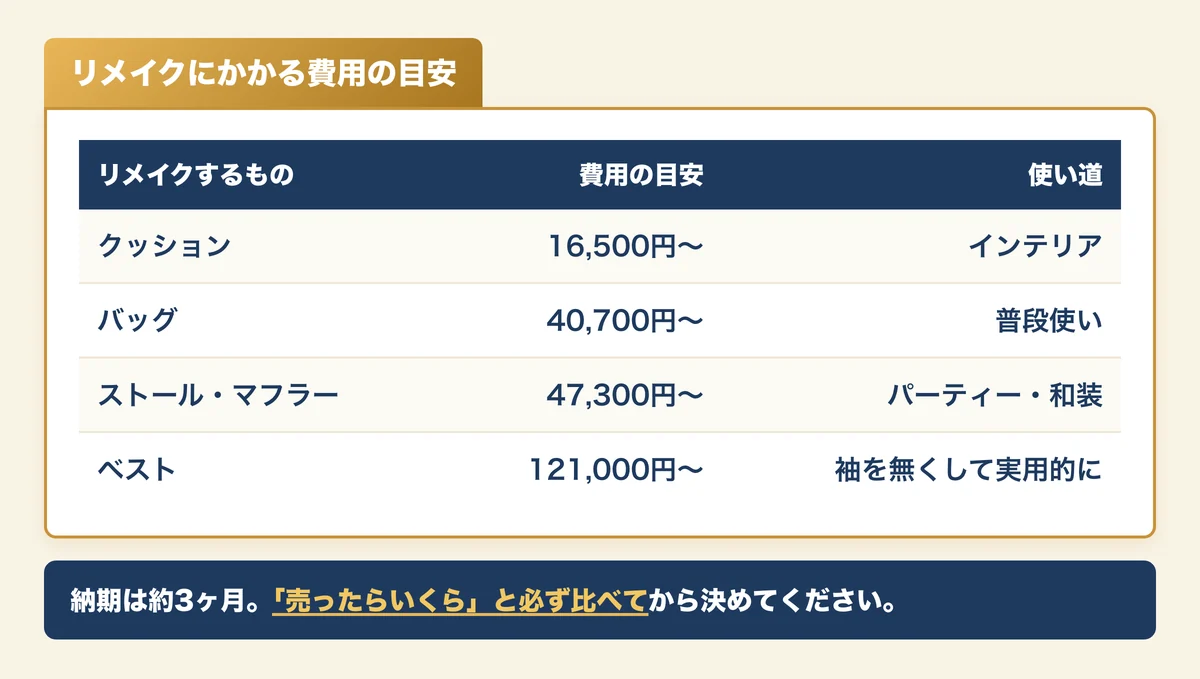
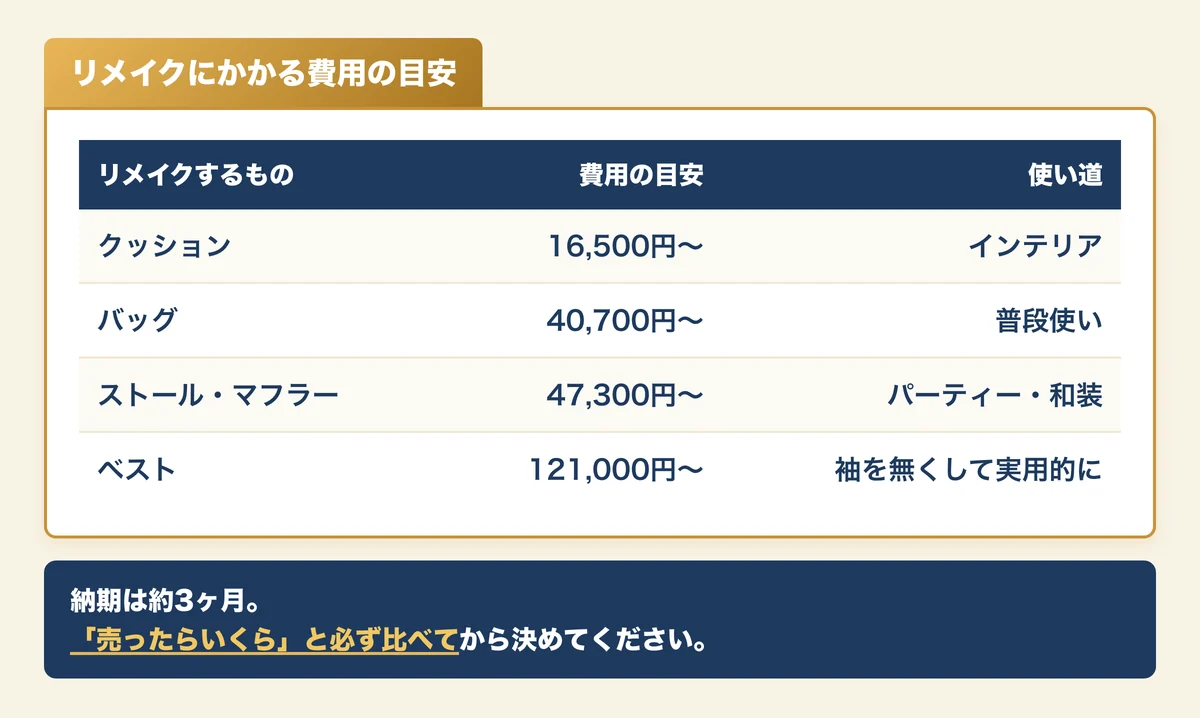
毛皮記事：画像と本文の重複を解消／画像内の文章を句点で改行
Satoshi指摘2点の是正。

【1】画像と本文で同じ表・同じ数字を二度見せていた
H2画像を「本文の表の丸写し」で作っていたのが原因。
H2＝章全体の要約／H3＝具体的な証拠、という役割定義に沿って修正。
- zukai-02：素材別相場表の複製 → 「相場は素材×タグ×状態で決まる」構造図へ
- zukai-04：選択肢テーブルの複製 → 「迷ったらこの順番で決める」判断フローへ
- H3側は画像を正とし、本文の重複を削除（ブランドタグ別表・状態別箇条書き・
  リメイク費用表）。本文3,207文字を削減
- 画像に載せた数値が本文に残っていないことをgrepで機械確認（0件）

【2】画像内の文章も「。」で改行
全21枚に適用。生成スクリプト側で自動化したので今後の図解にも適用される。

diff --git a/src/content/blog/kegawa-coat-jidai-okure.md b/src/content/blog/kegawa-coat-jidai-okure.md
@@ -106,7 +106,7 @@ related:
 <!-- ===== H2-2（2026-07-29 Phase4：旧H2-2「素材別相場」＋旧H2-3「ミンク相場」を統合。H2を9本→7本へ）===== -->
 <h2>毛皮の買取相場｜素材別とミンクの本音価格</h2>
 
-<img src="/blog-images/kegawa/zukai-02.webp" alt="毛皮の買取相場｜素材別とミンクの本音価格" width="1200" height="1125" loading="lazy" decoding="async" style="width:100%;height:auto;display:block;margin:24px auto;border-radius:10px;" />
+<img src="/blog-images/kegawa/zukai-02.webp" alt="毛皮の買取相場｜素材別とミンクの本音価格" width="1200" height="931" loading="lazy" decoding="async" style="width:100%;height:auto;display:block;margin:24px auto;border-radius:10px;" />
 
 <div style="background:#FFF8E1;border-left:4px solid #C8923A;padding:15px 20px;margin:20px 0;border-radius:4px;">
   <p style="margin:0;"><strong style="color:#C8923A;">💡 結論：</strong>ロシアンセーブルなら最大13万円超、ミンク・チンチラも数万円〜10万円規模。ラビット系は数千円が現実です。ミンクは<strong>SAGA MINKタグの有無で1.5〜3倍</strong>変わります。</p>
@@ -149,7 +149,7 @@ related:
 
 <h3>SAGA MINKタグの有無で査定額が1.5〜3倍違う</h3>
 
-<img src="/blog-images/kegawa/h3-01.webp" alt="SAGA MINKタグの有無で査定額が1.5〜3倍違う" width="1200" height="675" loading="lazy" decoding="async" style="width:100%;height:auto;display:block;margin:24px auto;border-radius:10px;" />
+<img src="/blog-images/kegawa/h3-01.webp" alt="SAGA MINKタグの有無で査定額が1.5〜3倍違う" width="1200" height="788" loading="lazy" decoding="async" style="width:100%;height:auto;display:block;margin:24px auto;border-radius:10px;" />
 
 <p>同じミンクでも、襟元や裏地に縫い付けられた<strong>「SAGA MINK」のメタルタグ</strong>があるかどうかで、査定額は大きく変わります。</p>
 
@@ -169,32 +169,9 @@ related:
 
 <img src="/blog-images/kegawa/h3-02.webp" alt="ブランドタグ別 買取相場一覧" width="1200" height="666" loading="lazy" decoding="async" style="width:100%;height:auto;display:block;margin:24px auto;border-radius:10px;" />
 
-<table style="width:100%;border-collapse:collapse;margin:20px 0;">
-  <thead>
-    <tr style="background:#1E3A5F;color:#fff;">
-      <th style="padding:10px;border:1px solid #ddd;text-align:left;">ブランドタグ</th>
-      <th style="padding:10px;border:1px solid #ddd;text-align:center;">買取相場（状態良好）</th>
-      <th style="padding:10px;border:1px solid #ddd;text-align:left;">特徴</th>
-    </tr>
-  </thead>
-  <tbody>
-    <tr><td style="padding:10px;border:1px solid #ddd;"><strong>SOBOL（ロシアンセーブル混紡）</strong></td><td style="padding:10px;border:1px solid #ddd;text-align:center;">10〜15万円超</td><td style="padding:10px;border:1px solid #ddd;">最高級ミンク向け最上位タグ・希少</td></tr>
-    <tr><td style="padding:10px;border:1px solid #ddd;"><strong>SAGA MINK</strong></td><td style="padding:10px;border:1px solid #ddd;text-align:center;">8〜12万円</td><td style="padding:10px;border:1px solid #ddd;">北欧認定の高品質・業界の標準上物指標</td></tr>
-    <tr><td style="padding:10px;border:1px solid #ddd;"><strong>BLACKGLAMA</strong></td><td style="padding:10px;border:1px solid #ddd;text-align:center;">5〜10万円</td><td style="padding:10px;border:1px solid #ddd;">アメリカ産黒ミンク・90年代の人気タグ</td></tr>
-    <tr><td style="padding:10px;border:1px solid #ddd;"><strong>SAGA FURS（その他毛皮）</strong></td><td style="padding:10px;border:1px solid #ddd;text-align:center;">3〜8万円</td><td style="padding:10px;border:1px solid #ddd;">フォックス・ラックーン等を含む北欧認定</td></tr>
-    <tr><td style="padding:10px;border:1px solid #ddd;">ノーブランド／タグ無し</td><td style="padding:10px;border:1px solid #ddd;text-align:center;">3千円〜2万円</td><td style="padding:10px;border:1px solid #ddd;">品質判定が査定士頼り・相場低め</td></tr>
-  </tbody>
-</table>
-
 <h3>状態別の査定例（業界8年の現場目線）</h3>
 
 <img src="/blog-images/kegawa/h3-03.webp" alt="状態別の査定例（業界8年の現場目線）" width="1200" height="619" loading="lazy" decoding="async" style="width:100%;height:auto;display:block;margin:24px auto;border-radius:10px;" />
-
-<ul>
-  <li><strong>新品同様（タグ付き・着用ほぼ無し・保管良好）：</strong>相場の上限ライン。SAGA MINK上物なら12万円付くケースも</li>
-  <li><strong>使用感あり（5〜10年使用・クリーニング済み）：</strong>相場の70〜80%。同じSAGA MINKでも8〜10万円</li>
-  <li><strong>難あり（毛抜け・破れ・カビ・型崩れ）：</strong>相場の20〜40%。ノーブランドだと値段が付かないことも</li>
-</ul>
 
 <h3>バブル期100万円のミンクが、2026年は数万円という現実</h3>
 
@@ -218,7 +195,7 @@ related:
 <!-- ===== H2-4 ===== -->
 <h2>毛皮を高く売る5つのコツ｜業界人の本音</h2>
 
-<img src="/blog-images/kegawa/zukai-03.webp" alt="毛皮を高く売る5つのコツ｜業界人の本音" width="1200" height="1302" loading="lazy" decoding="async" style="width:100%;height:auto;display:block;margin:24px auto;border-radius:10px;" />
+<img src="/blog-images/kegawa/zukai-03.webp" alt="毛皮を高く売る5つのコツ｜業界人の本音" width="1200" height="1457" loading="lazy" decoding="async" style="width:100%;height:auto;display:block;margin:24px auto;border-radius:10px;" />
 
 <div style="background:#FFF8E1;border-left:4px solid #C8923A;padding:15px 20px;margin:20px 0;border-radius:4px;">
   <p style="margin:0;"><strong style="color:#C8923A;">💡 結論：</strong>「ブラッシング・付属品・まとめ売り・季節選び・複数業者比較」——この5つで査定額は変わります。</p>
@@ -226,7 +203,7 @@ related:
 
 <h3>① ブラッシングで毛並みを整える</h3>
 
-<img src="/blog-images/kegawa/h3-05.webp" alt="① ブラッシングで毛並みを整える" width="1200" height="675" loading="lazy" decoding="async" style="width:100%;height:auto;display:block;margin:24px auto;border-radius:10px;" />
+<img src="/blog-images/kegawa/h3-05.webp" alt="① ブラッシングで毛並みを整える" width="1200" height="714" loading="lazy" decoding="async" style="width:100%;height:auto;display:block;margin:24px auto;border-radius:10px;" />
 
 <p>埃を払って毛並みを整えるだけで、査定士の第一印象が変わります。</p>
 
@@ -236,7 +213,7 @@ related:
 
 <h3>② 付属品をそろえる</h3>
 
-<img src="/blog-images/kegawa/h3-06.webp" alt="② 付属品をそろえる" width="1200" height="796" loading="lazy" decoding="async" style="width:100%;height:auto;display:block;margin:24px auto;border-radius:10px;" />
+<img src="/blog-images/kegawa/h3-06.webp" alt="② 付属品をそろえる" width="1200" height="870" loading="lazy" decoding="async" style="width:100%;height:auto;display:block;margin:24px auto;border-radius:10px;" />
 
 <p>保証書・品質タグ・予備のボタンを、できるだけ一緒に出してください。</p>
 
@@ -273,7 +250,7 @@ related:
 <!-- ===== H2-5 ===== -->
 <h2>親の毛皮どうする？5つの選択肢</h2>
 
-<img src="/blog-images/kegawa/zukai-04.webp" alt="親の毛皮どうする？5つの選択肢" width="1200" height="1345" loading="lazy" decoding="async" style="width:100%;height:auto;display:block;margin:24px auto;border-radius:10px;" />
+<img src="/blog-images/kegawa/zukai-04.webp" alt="親の毛皮どうする？5つの選択肢" width="1200" height="938" loading="lazy" decoding="async" style="width:100%;height:auto;display:block;margin:24px auto;border-radius:10px;" />
 
 <div style="background:#FFF8E1;border-left:4px solid #C8923A;padding:15px 20px;margin:20px 0;border-radius:4px;">
   <p style="margin:0;"><strong style="color:#C8923A;">💡 結論：</strong>「売る・着続ける・リメイク・譲る・処分」の5択。状態と素材で最適解が変わります。</p>
@@ -315,25 +292,9 @@ related:
 
 <h3>③ リメイクする｜思い出を形を変えて残す</h3>
 
-<img src="/blog-images/kegawa/h3-10.webp" alt="③ リメイクする｜思い出を形を変えて残す" width="1200" height="679" loading="lazy" decoding="async" style="width:100%;height:auto;display:block;margin:24px auto;border-radius:10px;" />
+<img src="/blog-images/kegawa/h3-10.webp" alt="③ リメイクする｜思い出を形を変えて残す" width="1200" height="718" loading="lazy" decoding="async" style="width:100%;height:auto;display:block;margin:24px auto;border-radius:10px;" />
 
 <p>コートのままでは着づらくても、バッグやストールに作り替えれば日常で使えます。</p>
-
-<table style="width:100%;border-collapse:collapse;margin:20px 0;">
-  <thead>
-    <tr style="background:#1E3A5F;color:#fff;">
-      <th style="padding:10px;border:1px solid #ddd;text-align:left;">リメイクアイテム</th>
-      <th style="padding:10px;border:1px solid #ddd;text-align:center;">費用目安</th>
-      <th style="padding:10px;border:1px solid #ddd;text-align:left;">活用</th>
-    </tr>
-  </thead>
-  <tbody>
-    <tr><td style="padding:10px;border:1px solid #ddd;">バッグ</td><td style="padding:10px;border:1px solid #ddd;text-align:center;">40,700円〜</td><td style="padding:10px;border:1px solid #ddd;">普段使い</td></tr>
-    <tr style="background:#f8f9fa;"><td style="padding:10px;border:1px solid #ddd;">ベスト</td><td style="padding:10px;border:1px solid #ddd;text-align:center;">121,000円〜</td><td style="padding:10px;border:1px solid #ddd;">袖を無くして実用的に</td></tr>
-    <tr><td style="padding:10px;border:1px solid #ddd;">ストール・マフラー</td><td style="padding:10px;border:1px solid #ddd;text-align:center;">47,300円〜</td><td style="padding:10px;border:1px solid #ddd;">パーティー・和装小物</td></tr>
-    <tr style="background:#f8f9fa;"><td style="padding:10px;border:1px solid #ddd;">クッション</td><td style="padding:10px;border:1px solid #ddd;text-align:center;">16,500円〜</td><td style="padding:10px;border:1px solid #ddd;">インテリア</td></tr>
-  </tbody>
-</table>
 
 <p>三越などの百貨店で、毛皮リメイクの相談会が定期的に開かれています。</p>
 
@@ -351,7 +312,7 @@ related:
 
 <h3>⑤ 処分する｜買取もリメイクも難しいとき</h3>
 
-<img src="/blog-images/kegawa/h3-11.webp" alt="⑤ 処分する｜買取もリメイクも難しいとき" width="1200" height="675" loading="lazy" decoding="async" style="width:100%;height:auto;display:block;margin:24px auto;border-radius:10px;" />
+<img src="/blog-images/kegawa/h3-11.webp" alt="⑤ 処分する｜買取もリメイクも難しいとき" width="1200" height="714" loading="lazy" decoding="async" style="width:100%;height:auto;display:block;margin:24px auto;border-radius:10px;" />
 
 <p>毛抜けやカビがひどく、値段がつかない1着もあります。</p>
 
@@ -377,7 +338,7 @@ related:
 <!-- ===== H2-6 ===== -->
 <h2>福ちゃん毛皮買取の評判｜業界人イチオシの3つの理由</h2>
 
-<img src="/blog-images/kegawa/zukai-05.webp" alt="福ちゃん毛皮買取の評判｜業界人イチオシの3つの理由" width="1200" height="976" loading="lazy" decoding="async" style="width:100%;height:auto;display:block;margin:24px auto;border-radius:10px;" />
+<img src="/blog-images/kegawa/zukai-05.webp" alt="福ちゃん毛皮買取の評判｜業界人イチオシの3つの理由" width="1200" height="1015" loading="lazy" decoding="async" style="width:100%;height:auto;display:block;margin:24px auto;border-radius:10px;" />
 
 <div style="background:#FFF8E1;border-left:4px solid #C8923A;padding:15px 20px;margin:20px 0;border-radius:4px;">
   <p style="margin:0;"><strong style="color:#C8923A;">💡 結論：</strong>福ちゃんは「ミンク・セーブルに強い」「女性査定士指名可能」「ネーム入りでも対応」の3点で他社より頭一つ抜けています。</p>
@@ -437,7 +398,7 @@ related:
 <!-- ===== H2-7 ===== -->
 <h2>なぜ売れない毛皮がある？4つのNG要因</h2>
 
-<img src="/blog-images/kegawa/zukai-06.webp" alt="なぜ売れない毛皮がある？4つのNG要因" width="1200" height="1207" loading="lazy" decoding="async" style="width:100%;height:auto;display:block;margin:24px auto;border-radius:10px;" />
+<img src="/blog-images/kegawa/zukai-06.webp" alt="なぜ売れない毛皮がある？4つのNG要因" width="1200" height="1325" loading="lazy" decoding="async" style="width:100%;height:auto;display:block;margin:24px auto;border-radius:10px;" />
 
 <div style="background:#FFF8E1;border-left:4px solid #C8923A;padding:15px 20px;margin:20px 0;border-radius:4px;">
   <p style="margin:0;"><strong style="color:#C8923A;">💡 結論：</strong>「皮の硬化・黄変・カビ臭・ワシントン条約該当」——この4つが買取不可・大幅減額の主要因です。</p>
@@ -445,7 +406,7 @@ related:
 
 <h3>① 皮が硬くなっている（経年劣化）</h3>
 
-<img src="/blog-images/kegawa/h3-12.webp" alt="① 皮が硬くなっている（経年劣化）" width="1200" height="675" loading="lazy" decoding="async" style="width:100%;height:auto;display:block;margin:24px auto;border-radius:10px;" />
+<img src="/blog-images/kegawa/h3-12.webp" alt="① 皮が硬くなっている（経年劣化）" width="1200" height="714" loading="lazy" decoding="async" style="width:100%;height:auto;display:block;margin:24px auto;border-radius:10px;" />
 
 <p>毛皮は年月が経つと、皮の脂分が抜けて硬くなります。</p>
 
@@ -455,7 +416,7 @@ related:
 
 <h3>② 白い毛皮が黄ばんでいる</h3>
 
-<img src="/blog-images/kegawa/h3-13.webp" alt="② 白い毛皮が黄ばんでいる" width="1200" height="567" loading="lazy" decoding="async" style="width:100%;height:auto;display:block;margin:24px auto;border-radius:10px;" />
+<img src="/blog-images/kegawa/h3-13.webp" alt="② 白い毛皮が黄ばんでいる" width="1200" height="606" loading="lazy" decoding="async" style="width:100%;height:auto;display:block;margin:24px auto;border-radius:10px;" />
 
 <p>紫外線や酸化で、白系の毛皮は黄色く変色します。</p>
 
@@ -469,7 +430,7 @@ related:
 
 <h3>④ ワシントン条約に当てはまる</h3>
 
-<img src="/blog-images/kegawa/h3-14.webp" alt="④ ワシントン条約に当てはまる" width="1200" height="796" loading="lazy" decoding="async" style="width:100%;height:auto;display:block;margin:24px auto;border-radius:10px;" />
+<img src="/blog-images/kegawa/h3-14.webp" alt="④ ワシントン条約に当てはまる" width="1200" height="947" loading="lazy" decoding="async" style="width:100%;height:auto;display:block;margin:24px auto;border-radius:10px;" />
 
 <p>ヒョウ・トラ・チーター・カンガルーなどは、売買そのものが禁止されています。</p>
 
@@ -495,7 +456,7 @@ related:
 <!-- ===== H2-9 ===== -->
 <h2>まとめ｜母の毛皮、あなたの正解はどれ？</h2>
 
-<img src="/blog-images/kegawa/zukai-07.webp" alt="まとめ｜母の毛皮、あなたの正解はどれ？" width="1200" height="979" loading="lazy" decoding="async" style="width:100%;height:auto;display:block;margin:24px auto;border-radius:10px;" />
+<img src="/blog-images/kegawa/zukai-07.webp" alt="まとめ｜母の毛皮、あなたの正解はどれ？" width="1200" height="1022" loading="lazy" decoding="async" style="width:100%;height:auto;display:block;margin:24px auto;border-radius:10px;" />
 
 <div style="background:#FFF8E1;border-left:4px solid #C8923A;padding:15px 20px;margin:20px 0;border-radius:4px;">
   <p style="margin:0;"><strong style="color:#C8923A;">💡 結論：</strong>まず無料査定で価値を知る→納得できれば売る、思い出重視ならリメイク、状態悪なら処分。順序を間違えなければ後悔しません。</p>
